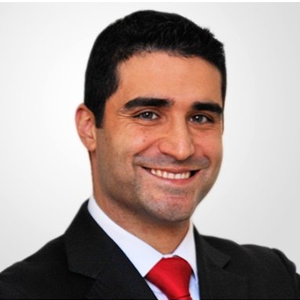
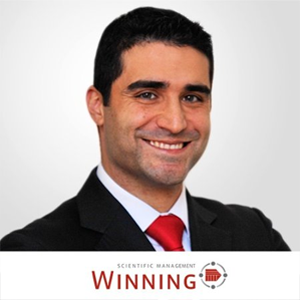
update Eduardo Espinheira

diff --git a/index.html b/index.html
@@ -161,7 +161,7 @@
 			<p>16h15</p>
 		  </div>
 		  <div class="small-3 medium-for-16 columns">
-			<a href="https://www.linkedin.com/in/eespinheira" target="_blank" data-tooltip aria-haspopup="true" class="has-tip" title="Eduardo Espinheira - 'Salário do Engenheiro Informático'"><img src="./images/companies/eduardo_espinheira.png"/></a>
+			<a href="https://www.linkedin.com/in/eespinheira" target="_blank" data-tooltip aria-haspopup="true" class="has-tip" title="Eduardo Espinheira da Winning - 'Saídas Profissionais de um Engenheiro Informático'"><img src="./images/companies/eduardo_espinheira.png"/></a>
 		  </div>
 		  <div class="small-3 medium-for-16 columns">
 			<a href="http://www.tlantic.com/pt/" target="_blank" data-tooltip aria-haspopup="true" class="has-tip" title="Tlantic SI"><img src="./images/companies/tlantic.png"/></a>
